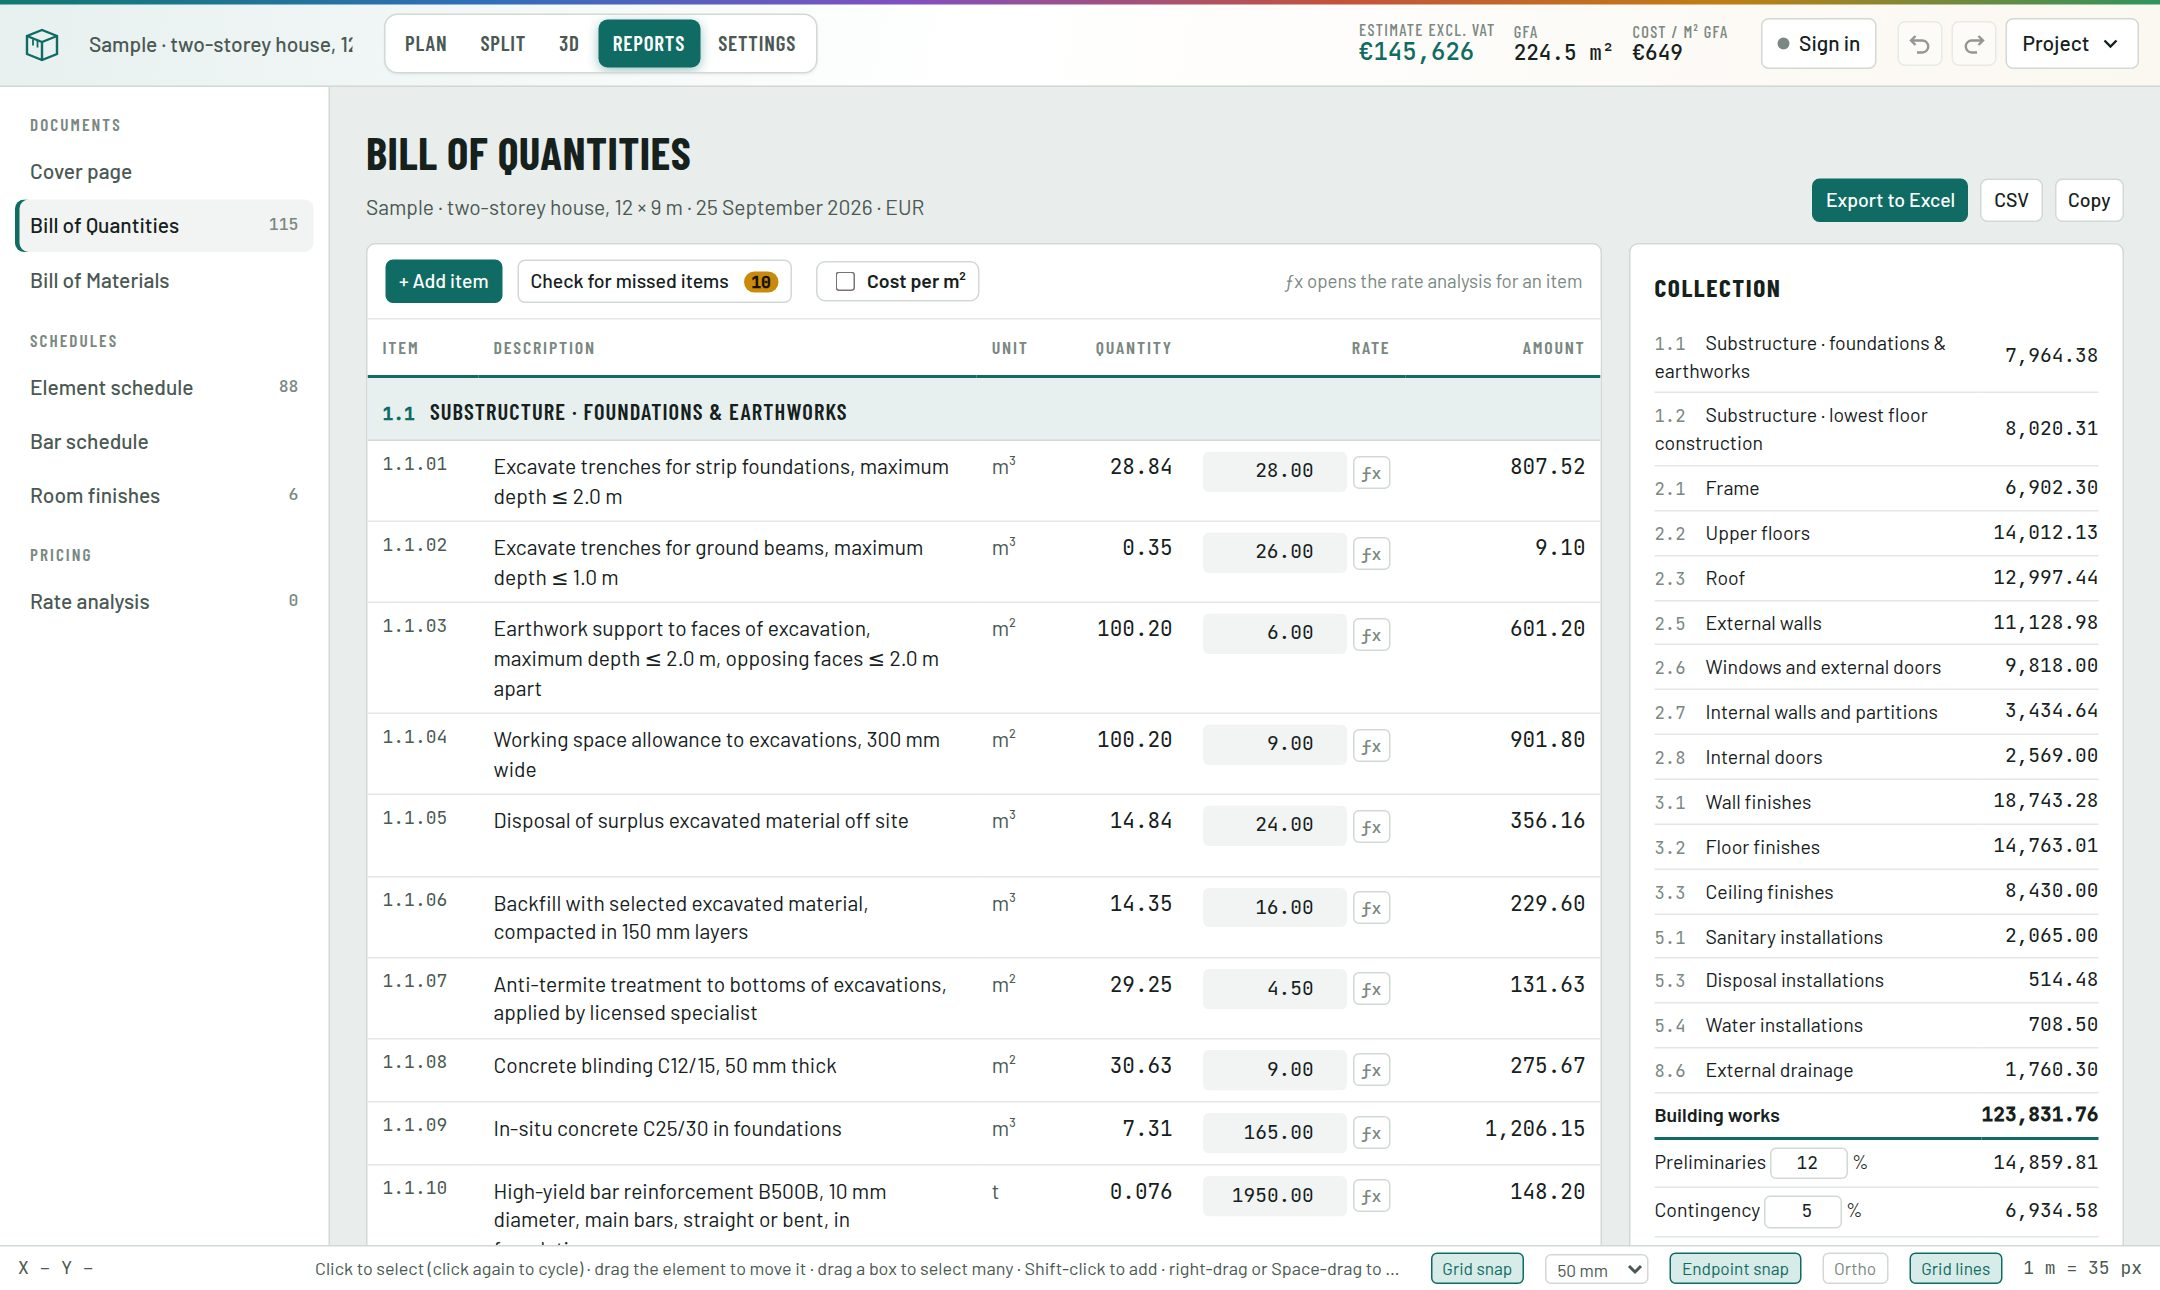
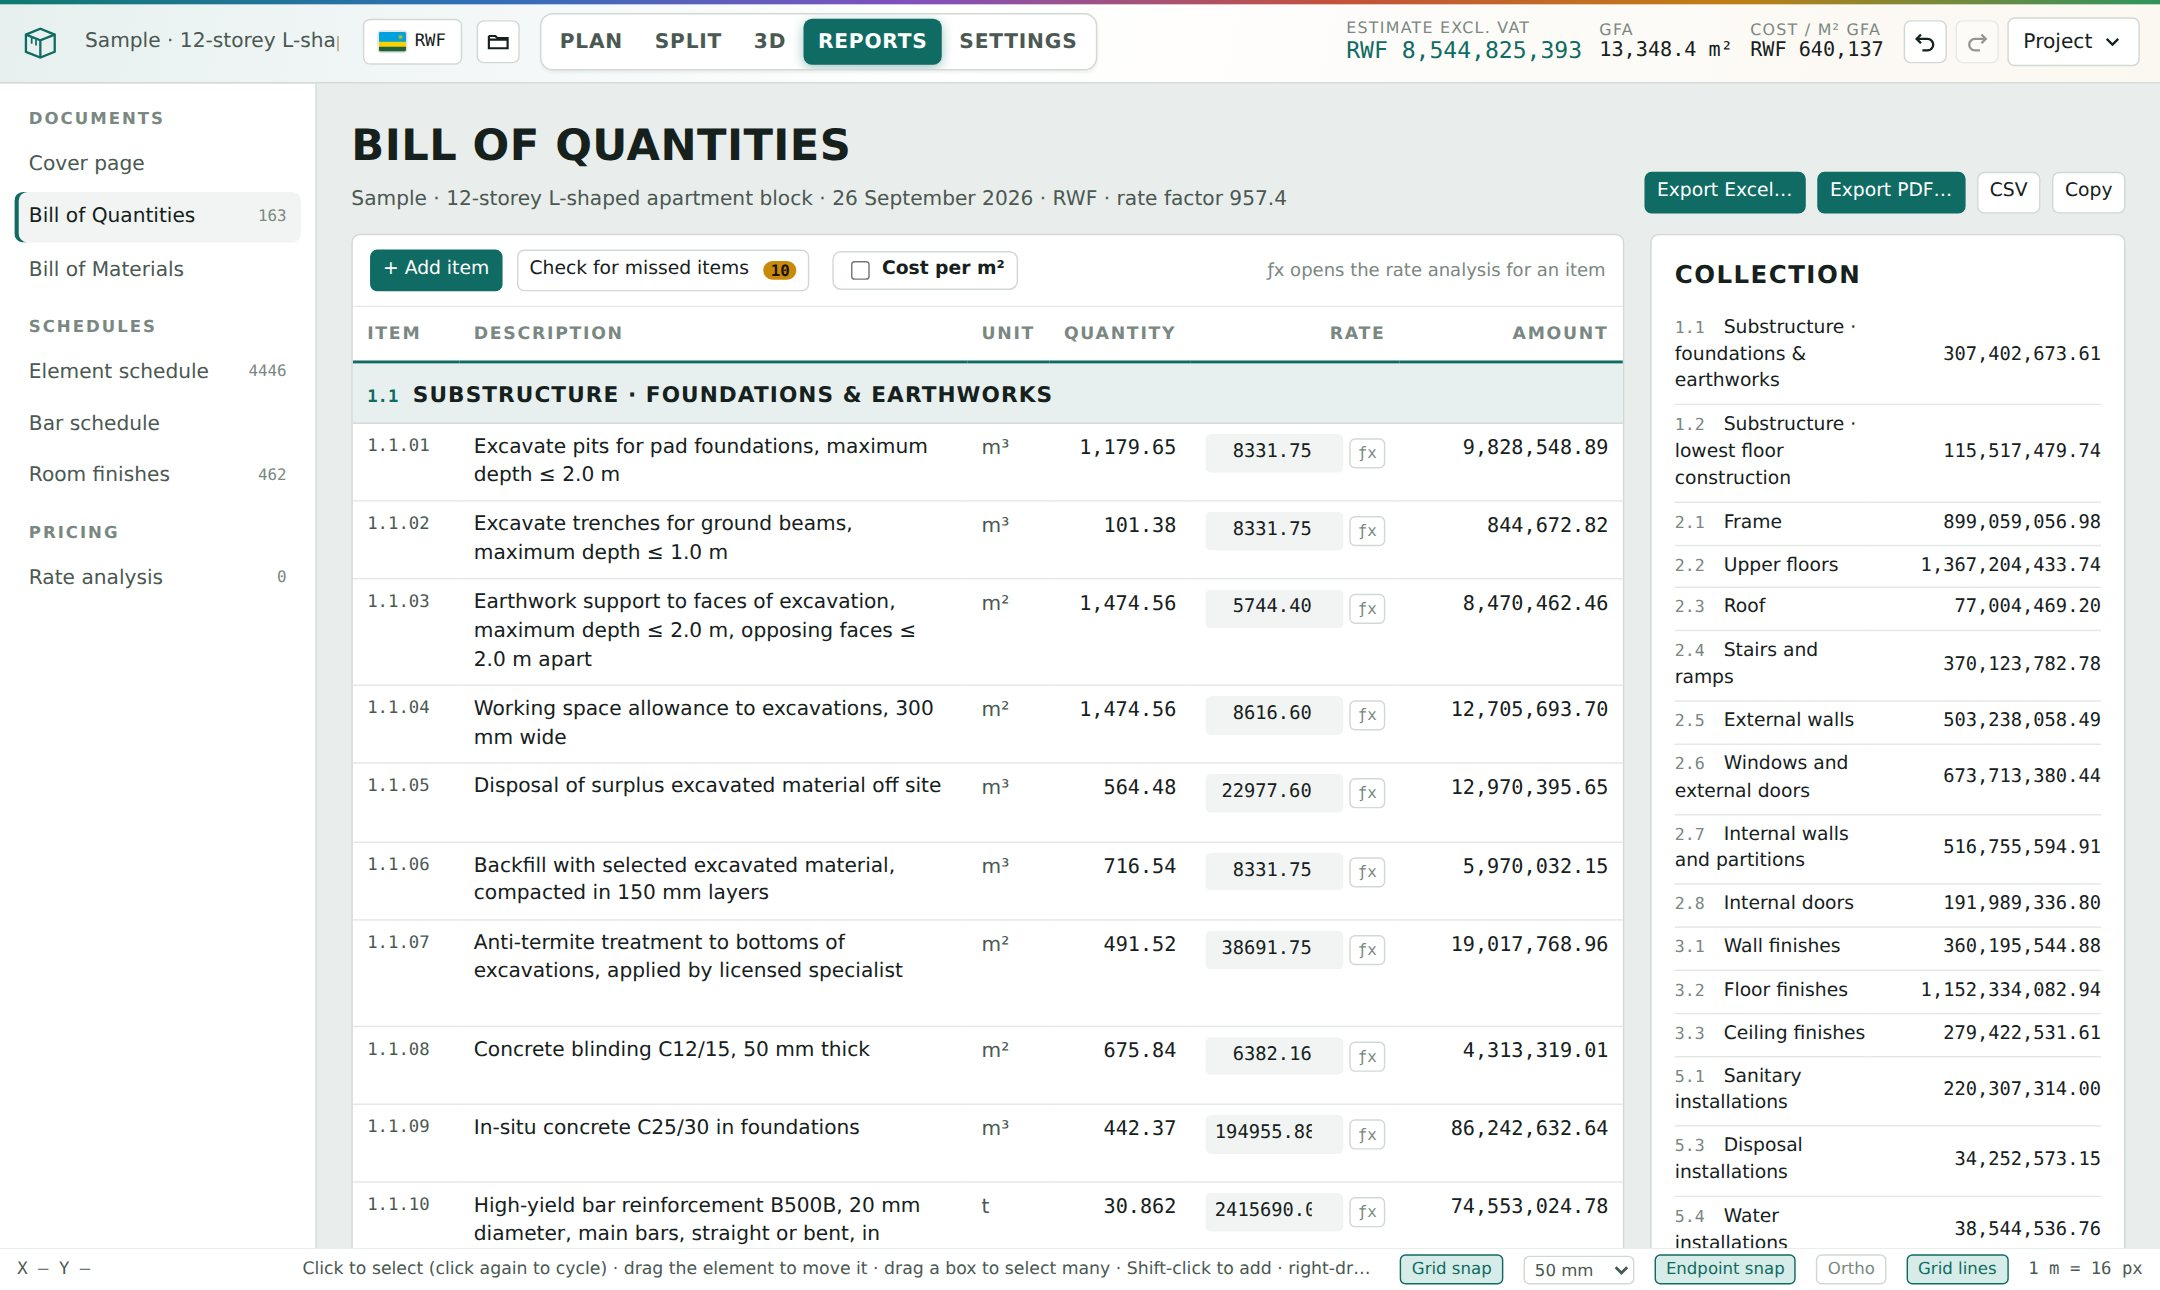
Landing: apartment block sample section and new screenshots

diff --git a/index.html b/index.html
@@ -95,12 +95,18 @@ footer{border-top:1px solid var(--line);padding:34px 0 46px;color:var(--ink3);fo
 footer .wrap{display:flex;justify-content:space-between;gap:20px;flex-wrap:wrap}footer a{color:var(--ink2)}
 .privacy{font-size:15px;color:var(--ink2);max-width:820px}.privacy h3{font-family:var(--f-cond);font-size:22px;text-transform:uppercase;margin:22px 0 6px;color:var(--ink)}
 .privacy ul{padding-left:20px;margin:6px 0}
+.gal{display:grid;grid-template-columns:repeat(2,minmax(0,1fr));gap:18px;margin-top:34px}
+.gal figure{margin:0;border-radius:12px;border:1px solid var(--line);overflow:hidden;background:var(--surface);box-shadow:0 18px 50px rgba(16,40,36,.12)}
+.gal figure.big{grid-column:1/-1}.gal img{display:block;width:100%;height:auto}
+.gal figcaption{padding:10px 14px;font-size:14px;color:var(--ink2);border-top:1px solid var(--line)}
+.facts{display:flex;flex-wrap:wrap;gap:10px 22px;margin:22px 0 0;padding:0;list-style:none;color:var(--ink2);font-size:15px}.facts b{color:var(--ink);font-family:var(--f-mono)}
+@media (max-width:760px){.gal{grid-template-columns:1fr}}
 </style>
 </head>
 <body>
 <nav class="nav"><div class="wrap">
   <a class="logo" href="#top" aria-label="AgileBOQ home"><svg viewBox="0 0 24 24" aria-hidden="true"><path d="M12 2.5 21 7.5v9L12 21.5 3 16.5v-9z" fill="#0F6B63"/><path d="M3 7.5 12 12.5l9-5M12 12.5v9" stroke="#fff" stroke-width="1.6" fill="none"/></svg>AgileBOQ</a>
-  <div class="links"><a href="#features">Features</a><a href="#how">How it works</a><a href="#who">Who it's for</a><a href="#faq">FAQ</a></div>
+  <div class="links"><a href="#features">Features</a><a href="#sample">Sample project</a><a href="#how">How it works</a><a href="#who">Who it's for</a><a href="#faq">FAQ</a></div>
   <div class="sp"></div>
   <a class="btn primary" href="app/">Open the app</a>
 </div></nav>
@@ -111,7 +117,7 @@ footer .wrap{display:flex;justify-content:space-between;gap:20px;flex-wrap:wrap}
   <p class="lede">Trace your PDF drawings or model the building. AgileBOQ measures to NRM while you draw, from substructure to services, with rebar bar by bar and finishes room by room. You get the 3D model, the Bill of Quantities and the bill of materials, all priced and ready for Excel.</p>
   <div class="cta"><a class="btn primary lg" href="app/">Start measuring, free</a><a class="btn lg" href="#demo">&#9654;&nbsp; Watch the 4-minute demo</a></div>
   <p class="small">No account needed. It runs in Chrome, Edge and Firefox, and your work is saved automatically in your browser.</p>
-  <div class="frame"><div class="bar"><i></i><i></i><i></i><span>agileboq · split view: plan and live 3D</span></div><img src="/shot-split.jpg" alt="AgileBOQ showing a traced ground-floor plan with grid lines next to the live 3D model of a two-storey house" width="2160" height="1290"></div>
+  <div class="frame"><div class="bar"><i></i><i></i><i></i><span>agileboq · split view: site plan and live 3D · sample 12-storey apartment block</span></div><img src="/shot-split.jpg" alt="AgileBOQ split view: the ground-floor site plan of a 12-storey apartment block with car parks and gardens, next to its live 3D model" width="2160" height="1290"></div>
   <div class="badges">
     <span><b style="background:#0F7A70"></b>NRM1 element groups</span><span><b style="background:#2F6FB8"></b>NRM2 measurement rules</span><span><b style="background:#8150C0"></b>Bar-by-bar rebar schedules</span><span><b style="background:#C4523B"></b>Excel with live formulas</span><span><b style="background:#C07E14"></b>Prices for 27 countries incl. RWF, KES, UGX</span><span><b style="background:#2E9460"></b>No sign-up needed</span>
   </div>
@@ -133,13 +139,28 @@ footer .wrap{display:flex;justify-content:space-between;gap:20px;flex-wrap:wrap}
   </div>
 </div></section>
 
+<section id="sample" style="scroll-margin-top:70px"><div class="wrap">
+  <span class="kicker">Sample project</span>
+  <h2>A 12-storey apartment block, fully measured and priced</h2>
+  <p class="intro">Open the app and this building is ready to explore: an L-shaped block of 110 flats with balconies, big windows, a glazed stair tower, a roof with plant screen, car parks, gardens and a boundary fence. Every element is in the NRM bill, so you can click anything and see what it costs.</p>
+  <ul class="facts"><li><b>12</b> storeys</li><li><b>110</b> flats and studios</li><li><b>13,348 m²</b> GFA</li><li><b>56</b> parking bays</li><li><b>4,400+</b> measured elements</li></ul>
+  <div class="gal">
+    <figure class="big"><img src="media/apt-front.jpg" alt="3D view of the 12-storey L-shaped apartment block from the street, with balconies, a glazed stair tower, forecourt trees, visitor parking and lawns" width="1440" height="956" loading="lazy"><figcaption>Street side: rendered façades with terracotta balcony bays, floor-to-ceiling windows and a full-height glass stair tower.</figcaption></figure>
+    <figure><img src="media/apt-courtyard.jpg" alt="3D aerial view of the courtyard car park behind the apartment block" width="1440" height="956" loading="lazy"><figcaption>Courtyard: 44-bay residents' car park with accessible bays, footpaths and kerbs.</figcaption></figure>
+    <figure><img src="media/apt-parking.jpg" alt="3D view of the apartment block from the car park side" width="1440" height="956" loading="lazy"><figcaption>Balconies with glass balustrades on every flat above the ground floor.</figcaption></figure>
+    <figure><img src="media/apt-facade.jpg" alt="Close-up 3D view of the ground floor entrance, trees and boundary railing" width="1440" height="956" loading="lazy"><figcaption>Ground floor: entrance lobby, residents' lounge, dwarf wall with railings and a motorised gate.</figcaption></figure>
+    <figure><img src="media/apt-plan.jpg" alt="Typical floor plan with two-bedroom flats, studios, corridors, stair and lift core" width="1440" height="1020" loading="lazy"><figcaption>Typical floor: eight 2-bed flats, two studios, a stair core and two lifts, on a structural grid.</figcaption></figure>
+  </div>
+  <div class="cta" style="margin-top:28px"><a class="btn primary lg" href="app/">Open the sample in the app</a></div>
+</div></section>
+
 <section class="alt"><div class="wrap">
   <div class="show"><div class="txt" style="--c:#8150C0"><span class="kicker">Bill of Quantities</span><h3>A priced bill you can hand over</h3><p>Every item is numbered by NRM element and linked to the elements it measures. Click "show in model" to see them highlighted.</p>
     <ul><li>Type over rates or build them up in a rate analysis</li><li>Optional cost per m² of GFA, or of any area you choose</li><li>Add missed items from the item library, or check for missing ones</li><li>Excel export keeps live formulas, a summary and all the schedules</li></ul></div>
     <div class="shot"><img src="/shot-boq.jpg" alt="Bill of Quantities grouped by NRM element with rates, amounts and a collection" loading="lazy"></div></div>
   <div class="show rev"><div class="txt" style="--c:#2F6FB8"><span class="kicker">3D model</span><h3>Check the take-off by looking at it</h3><p>Every element has its own colour on the plan and in 3D, and you can change it. Hide the roof, isolate the frame, and walk the levels.</p>
     <ul><li>Structural grid lines with bubbles on every level</li><li>Curved walls, beams and footings, measured along the arc</li><li>Select many elements with a box and edit them together</li></ul></div>
-    <div class="shot"><img src="/shot-3d.jpg" alt="3D model of a two-storey house with substructure, frame, walls and roof" loading="lazy"></div></div>
+    <div class="shot"><img src="/shot-3d.jpg" alt="3D model of a 12-storey L-shaped apartment block with balconies, glazed stair tower, parking and gardens" loading="lazy"></div></div>
   <div class="show"><div class="txt" style="--c:#C07E14"><span class="kicker">Documents</span><h3>Cover page, schedules and branding</h3><p>Branded cover pages with a cost chart, in your company colours, for the Bill of Quantities or the bill of materials.</p>
     <ul><li>Bar schedule with shape, number, length and weight</li><li>Room finishes schedule: floors, skirting, walls, ceilings</li><li>Report styles and colour presets for your brand</li></ul></div>
     <div class="shot"><img src="/shot-cover.jpg" alt="Cover page with project details and a cost-by-element chart" loading="lazy"></div></div>
@@ -179,7 +200,7 @@ footer .wrap{display:flex;justify-content:space-between;gap:20px;flex-wrap:wrap}
   </div>
 </div></section>
 
-<div class="wrap"><div class="band"><div><h2>Measure your next project here</h2><p>Open the app with a sample two-storey house and try it in five minutes.</p></div><a class="btn lg" href="app/">Open AgileBOQ →</a></div></div>
+<div class="wrap"><div class="band"><div><h2>Measure your next project here</h2><p>Open the app with the sample 12-storey apartment block and try it in five minutes.</p></div><a class="btn lg" href="app/">Open AgileBOQ →</a></div></div>
 
 <section id="privacy" style="padding-top:0"><div class="wrap privacy">
   <span class="kicker">Privacy</span><h2 style="font-size:32px">Your data</h2>
